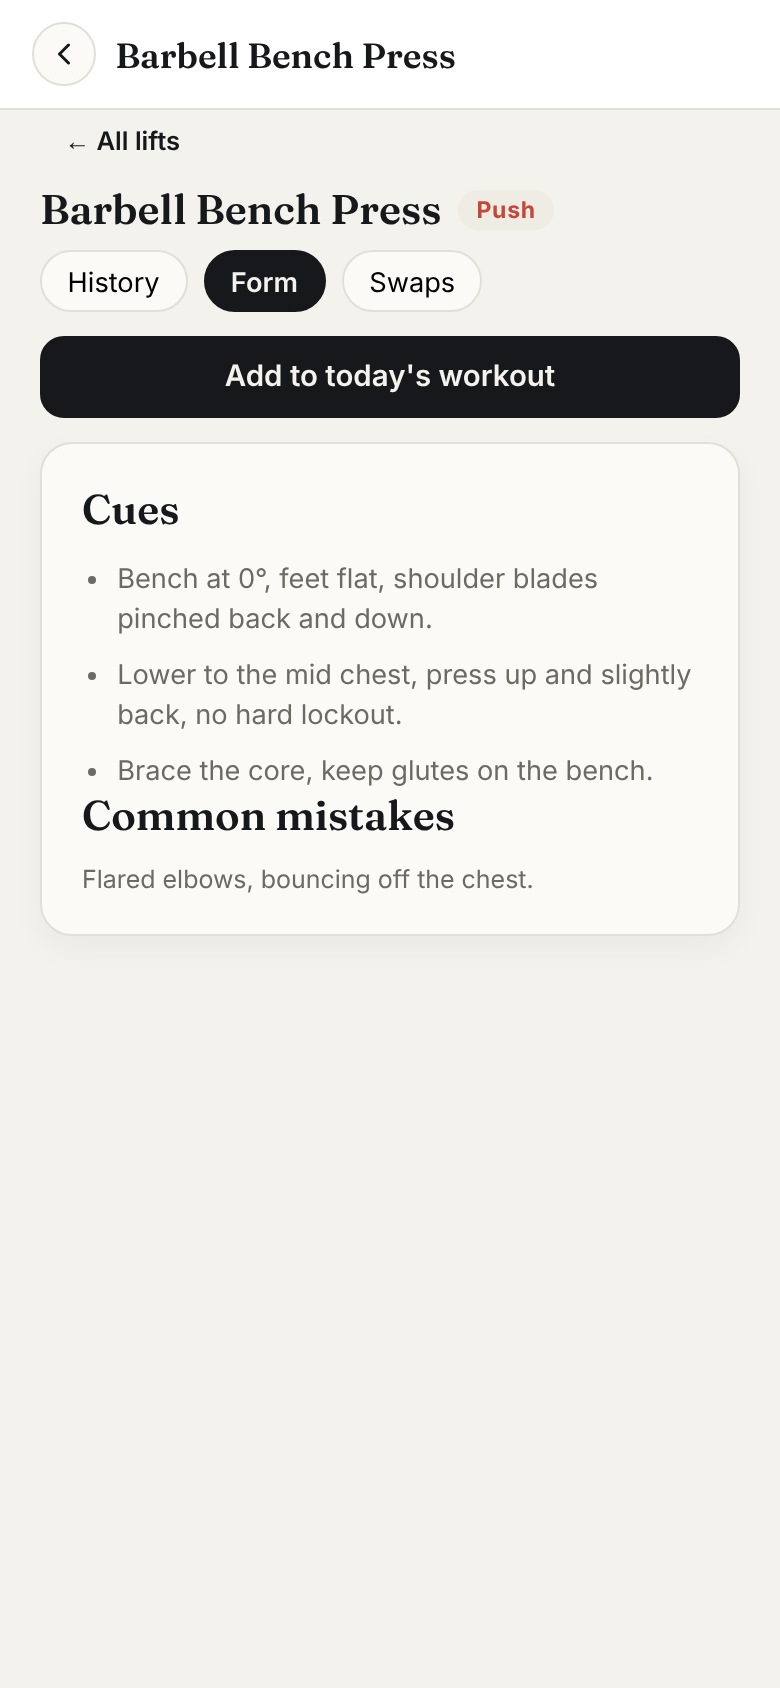
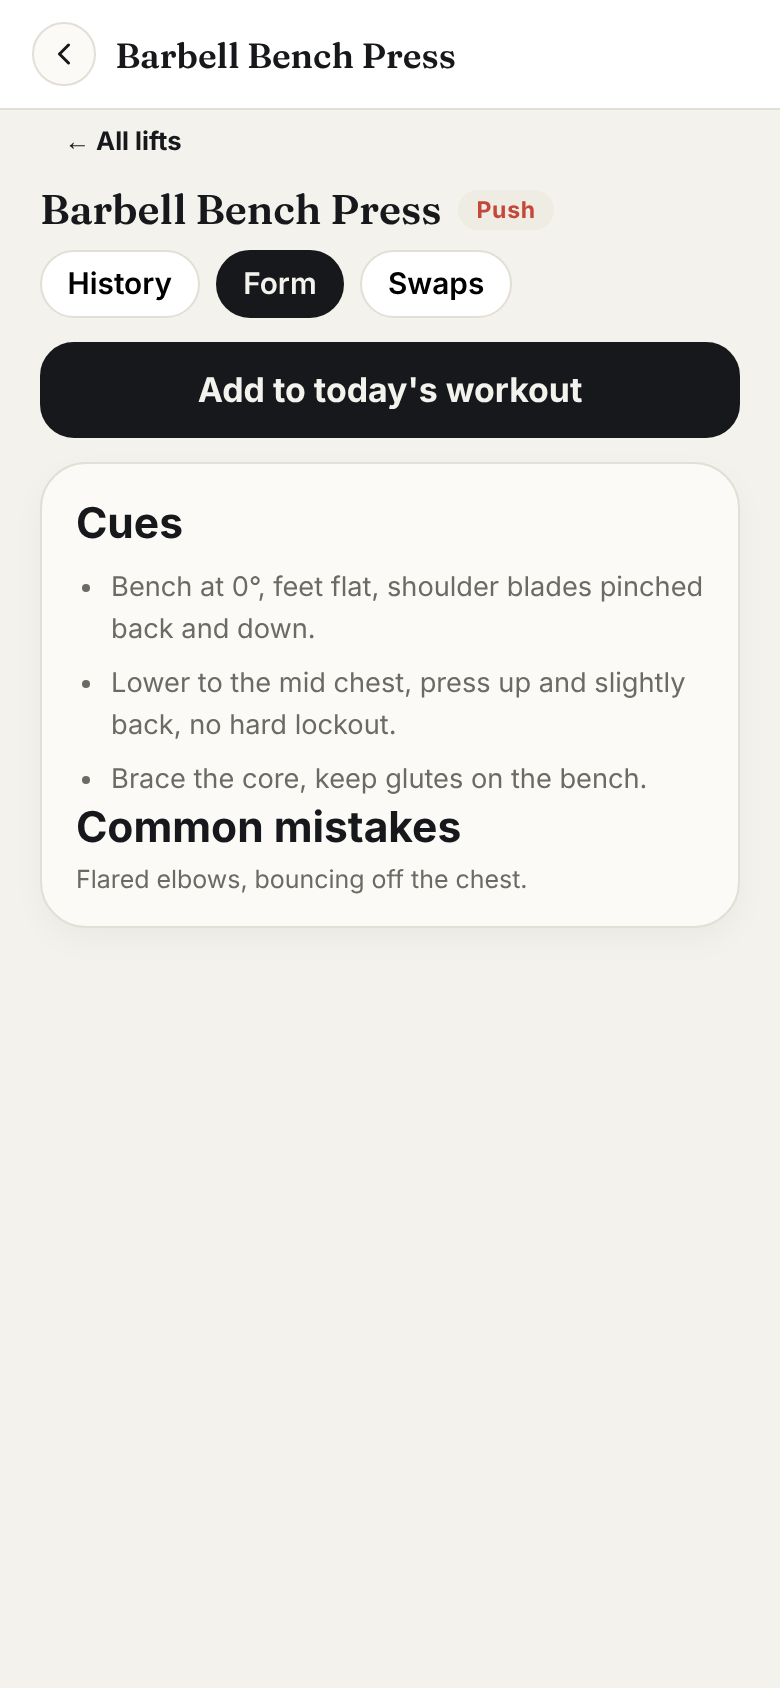
Fidelity pass: scale shared components to the mockup's own ratio
Earlier passes recolored/rounded .card, .btn, .chip but never applied
the fidelity-pass doc's actual rule: every mockup px value needs to
scale by 390/274 = 1.4234 (the mockup's own phone frame is narrower
than a real iPhone), not be copied 1:1. That's the real reason things
still looked off at a glance - wrong absolute size, not just wrong
color. Rescaled .btn, .chip, .input, .card, .pagetitle, the rest-timer
pill, and the progress ring (component E) to their correct values.

Also found and fixed (scoped to #panel-lifts only, training screens -
confirmed with the user before changing anything global): this app's
shared CSS makes every h1/h2/h3 the big serif display font, but the
mockup's plain <h3> (card section labels like "Your program", "Browse
programs") is small bold Inter. Training screens now get their own h3
rule instead of inheriting the global one. Fixed one concrete wrap bug
this caused ("Browse programs" + "Close" squeezed onto two lines by
.row's forced 120px-per-child minimum) by letting both sides size to
their own content instead.

Claude-Session: https://claude.ai/code/session_015L9cyNh1v2vMK9ZcFbmR4a

Changed region(s): [[0.0615, 0.1232, 0.9538, 0.5545], [0.1538, 0.0616, 0.2154, 0.0924]]

diff --git a/index.html b/index.html
@@ -201,8 +201,13 @@
   #initialLoadingScreen .display { font-size: 2rem; color: var(--accent); }
 
   /* ── Buttons / inputs ─────────────────────────────────────────── */
-  .btn { font-weight: 600; border-radius: 12px; padding: 0.65rem 1.1rem; border: 1px solid var(--border);
-    background: var(--surface-2); color: var(--text); cursor: pointer; transition: filter .15s, border-color .15s; font-size: 0.92rem; }
+  /* Mockup px values x1.4234 (real iPhone is 390px wide, the mockup's own
+     phone frame is 274px — every mockup px has to scale up by that ratio
+     to read at the same relative size on an actual screen; see the
+     fidelity-pass doc's "Design tokens" section). .btn: 12px radius,
+     9x14px padding, 12px/700 text -> 17/20/700. */
+  .btn { font-weight: 700; border-radius: 1.06rem; padding: 0.8rem 1.25rem; border: 1px solid var(--border);
+    background: var(--surface-2); color: var(--text); cursor: pointer; transition: filter .15s, border-color .15s; font-size: 1.06rem; }
   .btn:hover { border-color: var(--accent); }
   .btn:disabled { opacity: 0.5; cursor: not-allowed; }
   .btn-primary { background: var(--text); color: var(--bg); border-color: var(--text); }
@@ -220,7 +225,7 @@
   .btn-block { width: 100%; }
   .input, select, textarea {
     background: var(--surface-2); border: 1px solid var(--border); color: var(--text);
-    border-radius: 10px; padding: 0.6rem 0.8rem; font-family: inherit; width: 100%; font-size: 0.92rem;
+    border-radius: 0.7rem; padding: 0.6rem 0.8rem; font-family: inherit; width: 100%; font-size: 0.92rem;
   }
   textarea { resize: vertical; min-height: 4.5rem; }
   label { display: block; font-size: 0.8rem; color: var(--text-dim); margin-bottom: 0.3rem; font-weight: 600; }
@@ -233,8 +238,17 @@
      two-icon-button pair to 240px+ and starves the sibling text column. */
   .btn-group { display: flex; align-items: center; gap: 0.4rem; flex: none; min-width: 0; }
 
-  .card { background: var(--surface-2); border: 1px solid var(--border); border-radius: 16px; padding: 1.25rem; margin-bottom: 1rem; box-shadow: 0 6px 16px rgba(23,24,27,0.04); }
+  /* Card: 16px radius, 11x12px padding, mockup px x1.4234 -> 23/16/17. */
+  .card { background: var(--surface-2); border: 1px solid var(--border); border-radius: 1.44rem; padding: 1rem 1.06rem; margin-bottom: 0.8rem; box-shadow: 0 6px 16px rgba(23,24,27,0.04); }
   .card h3 { margin: 0 0 0.75rem; font-size: 1.3rem; }
+  /* Krafft training screens only (everything rendered into #panel-lifts:
+     Today's Lift/quick workout/A2/overview, Plans hub, Block Builder,
+     Exercise Library/detail) - the mockup's plain h3 (card section labels
+     like "Your program", "Browse programs") is small bold Inter, not the
+     serif display font every h1-h3 gets elsewhere in this app. Scoped
+     here rather than changed globally, so nothing outside training is
+     affected. Mockup 15px/700, margin-bottom 4px, x1.4234 -> 21px/0.36rem. */
+  #panel-lifts h3 { font-family: var(--font-body); font-weight: 700; font-size: 1.33rem; margin: 0 0 0.36rem; }
   .muted { color: var(--text-dim); font-size: 0.85rem; }
   .toast { position: fixed; bottom: 1.25rem; left: 50%; transform: translateX(-50%); background: var(--text);
     border: 1px solid var(--text); color: var(--bg); padding: 0.7rem 1.2rem; border-radius: 10px; z-index: 999;
@@ -405,10 +419,10 @@
      bar/+ button) while open. */
   .tab-panel.as-sheet.active { position: fixed; inset: 0; z-index: 38; background: var(--bg);
     overflow-y: auto; margin: 0; max-width: none;
-    /* Extra bottom room (mockup's own .body reserves 70px) so the floating
-       rest-timer pill never overlaps the last bit of real content. */
+    /* Extra bottom room so the floating rest-timer pill (now 68px tall,
+       20px inset) never overlaps the last bit of real content. */
     padding: calc(56px + env(safe-area-inset-top, 0px)) calc(1.25rem + env(safe-area-inset-right, 0px))
-      calc(4.5rem + env(safe-area-inset-bottom, 0px)) calc(1.25rem + env(safe-area-inset-left, 0px)); }
+      calc(6.5rem + env(safe-area-inset-bottom, 0px)) calc(1.25rem + env(safe-area-inset-left, 0px)); }
   .screen-sheet-bar { position: fixed; top: 0; left: 0; right: 0; z-index: 39; display: flex; align-items: center; gap: 0.6rem;
     padding: calc(0.7rem + env(safe-area-inset-top, 0px)) calc(1rem + env(safe-area-inset-right, 0px)) 0.7rem calc(1rem + env(safe-area-inset-left, 0px));
     background: var(--nav-bg); border-bottom: 1px solid var(--border); }
@@ -417,7 +431,8 @@
   .screen-sheet-back svg { width: 18px; height: 18px; }
   .screen-sheet-title { font-family: var(--font-display); font-weight: 600; font-size: 1.1rem; color: var(--text); }
   .pagehead { margin-bottom: 1rem; }
-  .pagetitle { font-family: var(--font-display); font-weight: 600; font-size: 1.5rem; color: var(--text); }
+  /* Screen title: mockup 24px x1.4234 -> 34px. */
+  .pagetitle { font-family: var(--font-display); font-weight: 600; font-size: 2.14rem; color: var(--text); line-height: 1.1; }
   .profile-hero { text-align: center; padding: 0.5rem 0 1.25rem; }
   .profile-avatar-circle { width: 64px; height: 64px; border-radius: 50%; background: var(--surface-2);
     border: 2px solid var(--accent); margin: 0 auto 0.6rem; display: flex; align-items: center; justify-content: center;
@@ -785,11 +800,13 @@
      3-tab bar, never overlapping it. */
   /* Floating glass pill, same recipe as .bottom-nav/.plus-fab - the
      mockup's .rest is this exact treatment, not a full-width flat bar. */
-  .rest-timer-bar { position: fixed; left: calc(14px + env(safe-area-inset-left, 0px)); right: calc(14px + env(safe-area-inset-right, 0px));
-    bottom: calc(14px + env(safe-area-inset-bottom, 0px)); z-index: 39; display: flex; align-items: center; gap: 0.6rem;
-    height: 48px; padding: 0 1rem; border-radius: 24px;
+  /* Mockup's glass pill is 48px tall with a fully-round 24px radius at its
+     274px-wide frame; x1.4234 for a real 390px-wide screen -> 68px/34px. */
+  .rest-timer-bar { position: fixed; left: calc(20px + env(safe-area-inset-left, 0px)); right: calc(20px + env(safe-area-inset-right, 0px));
+    bottom: calc(20px + env(safe-area-inset-bottom, 0px)); z-index: 39; display: flex; align-items: center; gap: 0.6rem;
+    height: 4.25rem; padding: 0 1.25rem; border-radius: 2.125rem;
     background: rgba(23,24,27,.86); backdrop-filter: blur(14px); -webkit-backdrop-filter: blur(14px);
-    color: #fff; font-weight: 600; font-size: 0.8rem; }
+    color: #fff; font-weight: 600; font-size: 1.06rem; }
   .rest-timer-bar .mono { color: #fff; }
   .rest-timer-bar .btn { background: transparent; border: none; color: var(--gold); padding: 0.3rem 0.4rem; }
   .rest-timer-bar button:first-of-type { margin-left: auto; }
@@ -861,11 +878,12 @@
   /* Workout overview's per-exercise status indicator (mockup's Done/
      Up-next/Later rings) - flex:none + an explicit min-width escapes
      .row's ">*" rule above, which would otherwise stretch this to 120px. */
-  .ring { width: 30px; height: 30px; min-width: 30px; border-radius: 50%; flex: none;
-    display: flex; align-items: center; justify-content: center; font-family: var(--font-mono); font-size: 0.68rem; font-weight: 600; }
+  /* Mockup's ring is 30px at its 274px-wide frame; x1.4234 -> 43px. */
+  .ring { width: 2.69rem; height: 2.69rem; min-width: 2.69rem; border-radius: 50%; flex: none;
+    display: flex; align-items: center; justify-content: center; font-family: var(--font-mono); font-size: 0.84rem; font-weight: 600; }
   .ring-done { background: var(--success); color: #fff; }
   .ring-progress { background: conic-gradient(var(--gold) calc(var(--ring-pct, 0) * 1%), var(--surface-3) 0); color: var(--text); position: relative; }
-  .ring-progress::after { content: attr(data-t); position: absolute; inset: 3px; border-radius: 50%; background: var(--surface-2); display: flex; align-items: center; justify-content: center; }
+  .ring-progress::after { content: attr(data-t); position: absolute; inset: 0.27rem; border-radius: 50%; background: var(--surface-2); display: flex; align-items: center; justify-content: center; }
   .ring-none { background: var(--surface-3); color: var(--text-dim); }
 
   /* ── Lists ────────────────────────────────────────────────────── */
@@ -879,10 +897,11 @@
   .log-row .name { font-family: var(--font-display); font-weight: 500; overflow-wrap: break-word; }
   .log-row .macros { font-family: var(--font-mono); font-size: 0.78rem; color: var(--text-dim); }
   .chip-row { display: flex; flex-wrap: wrap; gap: 0.5rem; }
-  .chip { background: var(--surface-2); border: 1px solid var(--border); border-radius: 999px; padding: 0.4rem 0.8rem;
-    cursor: pointer; font-size: 0.85rem; }
+  /* Chip: 10.5px/600 text, 5x9px padding, mockup px x1.4234 -> 15/600, 7x13px. */
+  .chip { background: #fff; border: 1px solid var(--border); border-radius: 999px; padding: 0.44rem 0.8rem;
+    cursor: pointer; font-size: 0.93rem; font-weight: 600; white-space: nowrap; }
   .chip:hover { border-color: var(--accent); }
-  .chip.chip-active { background: var(--text); color: var(--bg); border-color: var(--text); font-weight: 600; }
+  .chip.chip-active { background: var(--text); color: var(--bg); border-color: var(--text); }
   .pill-soft { display: inline-block; background: var(--accent-soft); color: var(--accent); border-radius: 999px;
     padding: 0.15rem 0.55rem; font-size: 0.72rem; font-weight: 600; letter-spacing: 0.02em; }
 
@@ -15214,8 +15233,8 @@ function renderPlansHub(panel) {
     </div>` : `<div class="card"><p class="muted" style="margin:0;">No program active. Browse one below, or keep using Start workout from Today without one — a program is never required.</p></div>`}
     <div class="card">
       <div class="row" style="justify-content:space-between;align-items:center;">
-        <h3 style="margin:0;">Browse programs</h3>
-        <button class="btn btn-sm btn-ghost" id="plansHubCloseBtn">Close</button>
+        <h3 style="margin:0;flex:none;min-width:0;">Browse programs</h3>
+        <button class="btn btn-sm btn-ghost" id="plansHubCloseBtn" style="flex:none;min-width:0;">Close</button>
       </div>
       <div class="chip-row" style="margin-top:0.5rem;">
         <button class="chip ${level === '' ? 'chip-active' : ''}" data-plans-level="">All</button>
